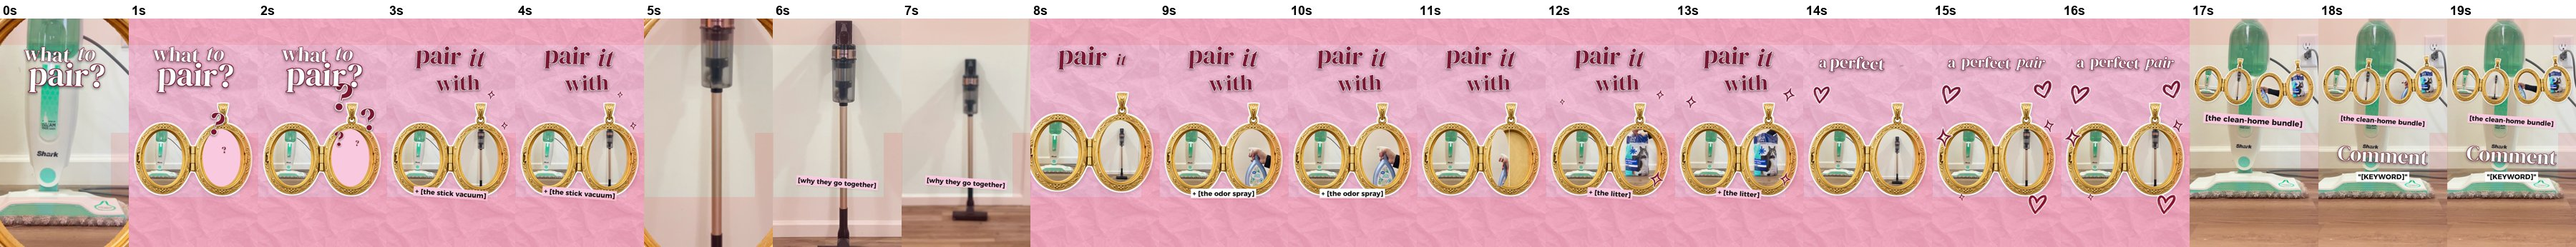
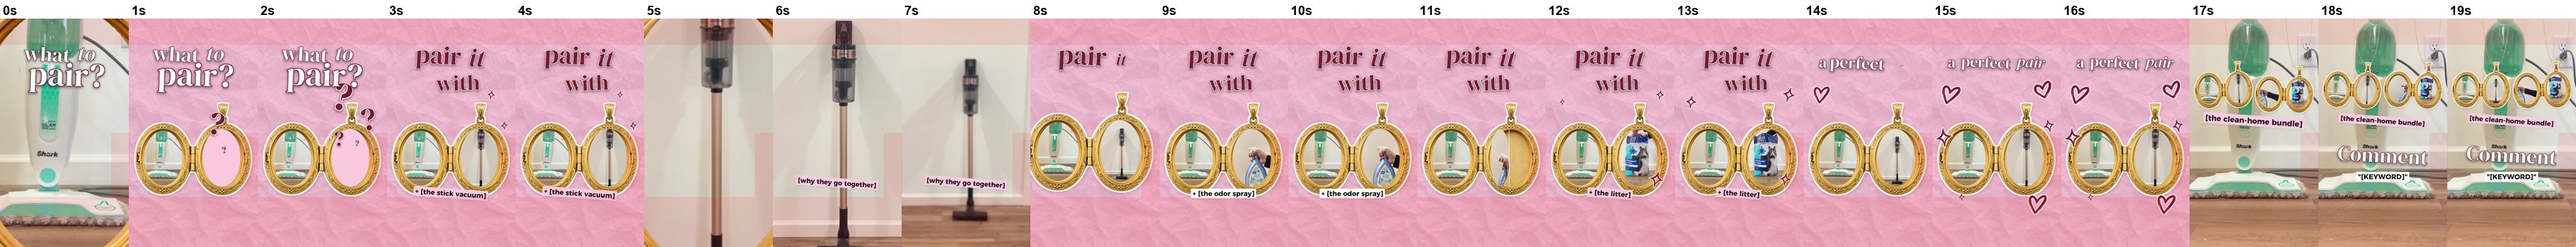
Reel Template Packs #19: the two end lockets hang from her real gold chain

Changed region(s): [[0.84, 0.2312, 1.0, 0.4624]]

diff --git a/automation/reel-template-pack/build/motion_19.py b/automation/reel-template-pack/build/motion_19.py
@@ -60,6 +60,8 @@ def setup():
         m = Image.new('L', gl.size, 0); a = gl.split()[3].point(lambda v: 0 if v > 60 else 255); ImageDraw.floodfill(a, (int(gl.width * fx), int(gl.height * 0.5)), 128)
         lens.append(a.point(lambda v: 255 if v == 128 else 0))
     g['glasses'] = (gl, lens)
+    ch = Image.open(S.E.PACK / 'build' / '.cache' / 'hq' / 'Fine gold necklace chain.png').convert('RGBA')
+    g['chain'] = ch.crop((0, 0, ch.width, int(ch.height * 0.945)))           # her real chain (no reflection), V bottom = the bail
     g['tea'] = P.thing('Vintage Rose Porcelain Tea Set.png', 820, 'smalldots', WINE, scale=0.3, strength=0.35)
     g['what'] = P.caption('what to', 190, WHITE); g['pairw'] = P.caption('pair?', 300, WHITE); g['q'] = X.key('?', 330, WINE, (246, 241, 232)); g['why'] = X.hl('[why they go together]', 60, PINK); g['ph1'] = P.caption('pair it', 230, INK); g['ph2'] = P.caption('with', 200, INK); g['with'] = X.hl('with [my steam mop]', 60, WHITE)
     g['plus'] = [X.hl(t, 62, (PINK, WHITE, PINK)[i]) for i, t in enumerate(('+ [the stick vacuum]', '+ [the odor spray]', '+ [the litter]'))]
@@ -221,10 +223,14 @@ def cta(g, t):
     """CTA (a new scene, her note): the product full frame, the three pairings in their real frames pinned along the top;
     the bundle name on its own at the top, the keyword on its own in the middle (they no longer compete)."""
     c = g['c']; im = c['main'].at(t).copy()
-    for i, (a, b, x, r) in enumerate(((c['main'].at(t), c['p1'].at(t - 1.8), 285, -5), (c['p2'].at(t - 5.1), c['p3'].at(t - 6.5), 795, 5))):
+    for i, (a, b, x, r) in enumerate(((c['main'].at(t), c['p1'].at(t - 1.8), 285, 0), (c['p2'].at(t - 5.1), c['p3'].at(t - 6.5), 795, 0))):
         lay = locket(g, t, a, b, bg=False)                              # two lockets = four halves: the product + its three pairs
         lay = lay.crop((0, LC[1] - 560, W, LC[1] + 560)).resize((540, 560))
-        put(im, lay, (x, lerp(-400, 520, back_out(seg(t, 10.0 + i * 0.15, 10.4 + i * 0.15), 1.4))), 1, r)
+        y = lerp(-400, 560, back_out(seg(t, 10.0 + i * 0.15, 10.4 + i * 0.15), 1.4)); sw = 3 * math.sin(t * 2 + i * 1.3)
+        bail = (x + 122, y - 195)
+        if bail[1] + 40 > 20:
+            ch = g['chain'].resize((230, int(bail[1] + 40))); im.alpha_composite(ch, (int(bail[0] - ch.width / 2), int(bail[1] + 30 - ch.height)))   # the chain behind
+        put(im, lay, (x, y), 1, sw)
     P.say(im, g['bname'], t, 10.3, (540, 860), -2)
     P.say(im, g['comment'], t, 10.6, (540, 1150), -3); P.say(im, g['kw'], t, 10.85, (540, 1330), 2)
     return im
